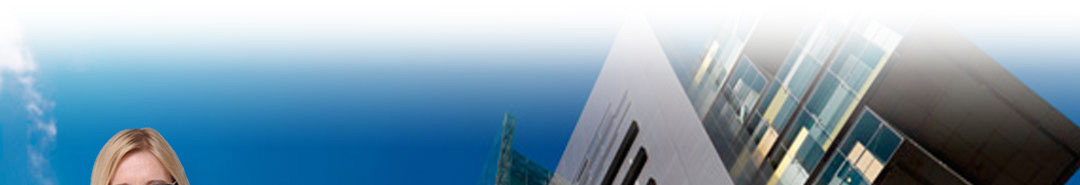
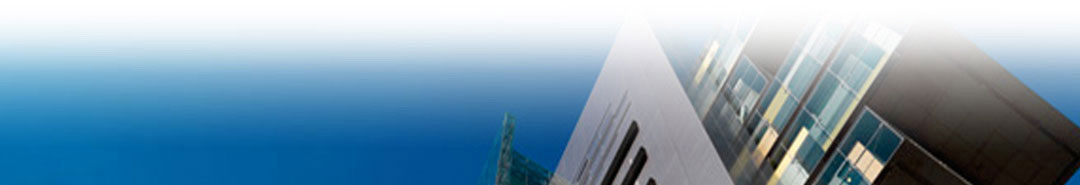
Update site header.
- Remove Natalie from background image
- Simplify markup
- Use static HMCTS logo rather than relying on theme options

Changed region(s): [[0.0, 0.1892, 0.1833, 1.0]]

diff --git a/wp-content/themes/linen_pro/header.php b/wp-content/themes/linen_pro/header.php
@@ -37,24 +37,11 @@
 	<div class="skip-content"><a href="#content"><?php _e( 'Skip to content', 'linen' ); ?></a></div>
 	<div id="wrapper" class="clear">
 		<div id="header" class="clear">
-			<?php if ($linen->logoState() == 'true' ) : ?>
-				<?php $upload_dir = wp_upload_dir(); ?>
-				<div id="title">
-					<a href="<?php echo home_url( '/' ); ?>">
-						<img src="<?php echo $linen->logoName(); ?>" alt="<?php if ($linen->logoAlt() !== '' ) echo $linen->logoAlt(); else echo bloginfo( 'name' ); ?>" /><span class="blogname">Natalie's blog</span>
-					</a>
-				</div>
-				<?php if ($linen->logoTagline() == 'true' ) : ?>
-					<div id="description">
-						<h2><?php bloginfo( 'description' ); ?></h2>
-					</div><!--end description-->
-				<?php endif; ?>
-			<?php else : ?>
-				<?php if (is_home()) echo( '<h1 id="title">' ); else echo( '<div id="title">' );?><a href="<?php echo home_url(); ?>"><?php bloginfo( 'name' ); ?></a><?php if (is_home()) echo( '</h1>' ); else echo( '</div>' );?>
-					<div id="description">
-						<h2><?php bloginfo( 'description' ); ?></h2>
-					</div><!--end description-->
-			<?php endif; ?>
+			<div id="title">
+				<a href="<?php echo home_url( '/' ); ?>">
+					<img src="<?php echo get_template_directory_uri(); ?>/images/hmcts-logo.png" alt="HM Courts &amp; Tribunals Service" /><span class="blogname"><?php echo bloginfo('name'); ?></span>
+				</a>
+			</div>
 			<?php
 				wp_nav_menu(
 					array(
@@ -63,10 +50,11 @@
 						'container_class' => 'clear',
 						'menu_class'      => 'nav',
 						'fallback_cb'     => array( &$linen, 'main_menu_fallback')
-						)
-					);
+					)
+				);
 			?>
 		</div><!--end header-->
+
 		<?php if ( (is_front_page() || $wp_query->is_posts_page) && !is_paged() && $linen->use_featured_header() ) { ?>
 			<?php get_template_part( 'tmpart-featured' ); ?>
 		<?php } ?>
@@ -74,20 +62,18 @@
 			<?php get_sidebar(); ?>
 		<?php endif; ?>
 		
-	<div id="featured" class="clear">
-		<div class="container">
-			<div id="slides">
-				<div class="slides_container">
-					<div id="slide-1" class="slide show-slide">
-						<!--<img scale="0" src="/wp-content/themes/linen_pro/images/ursula-banner.jpg" height="353" width="652">-->
-						<div class="slide-content">
-							<!--<h2>Get to know a bit more about me, what I'm up to and what makes me tick...</h2>-->
-							<p>My blog about HMCTS... please share your views.</p>
+		<div id="featured" class="clear">
+			<div class="container">
+				<div id="slides">
+					<div class="slides_container">
+						<div id="slide-1" class="slide show-slide">
+							<div class="slide-content">
+								<p class="blogdescription"><?php bloginfo('description'); ?></p>
+							</div>
 						</div>
 					</div>
 				</div>
 			</div>
 		</div>
-	</div>
 		
 		<div id="content" <?php if ( ( is_page_template( 'tm-no-sidebar.php' ) ) || ( $linen->sidebarDisable() == 'true' ) ) echo ( 'class="no-sidebar"' ); ?>>
